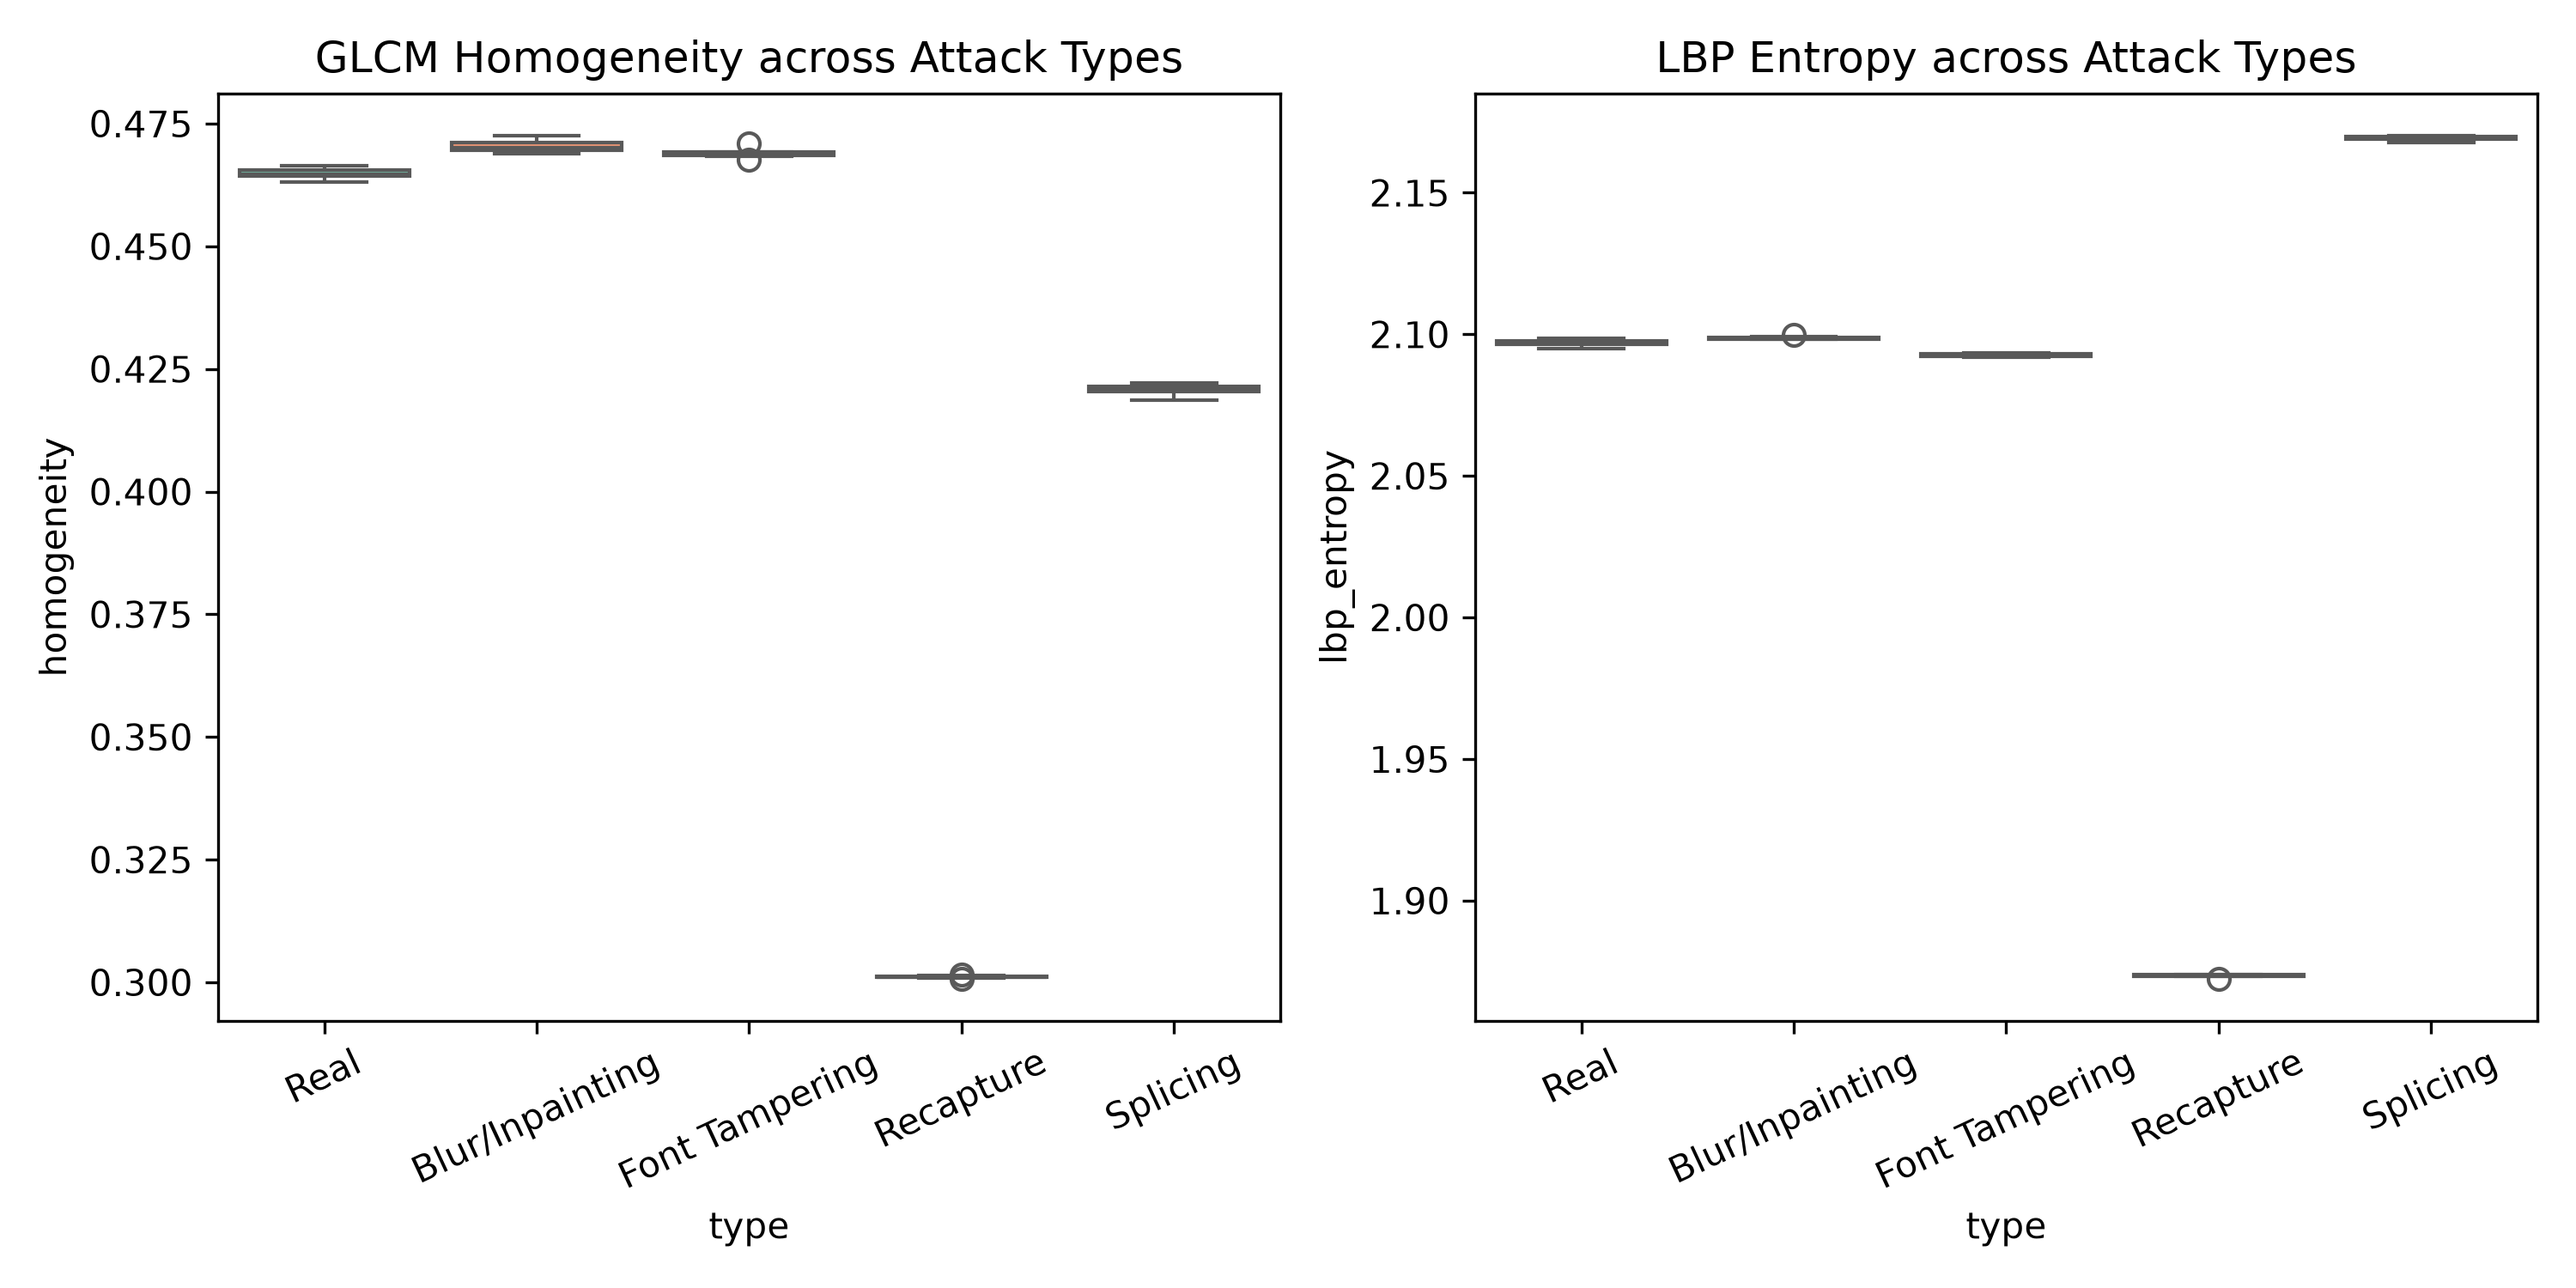
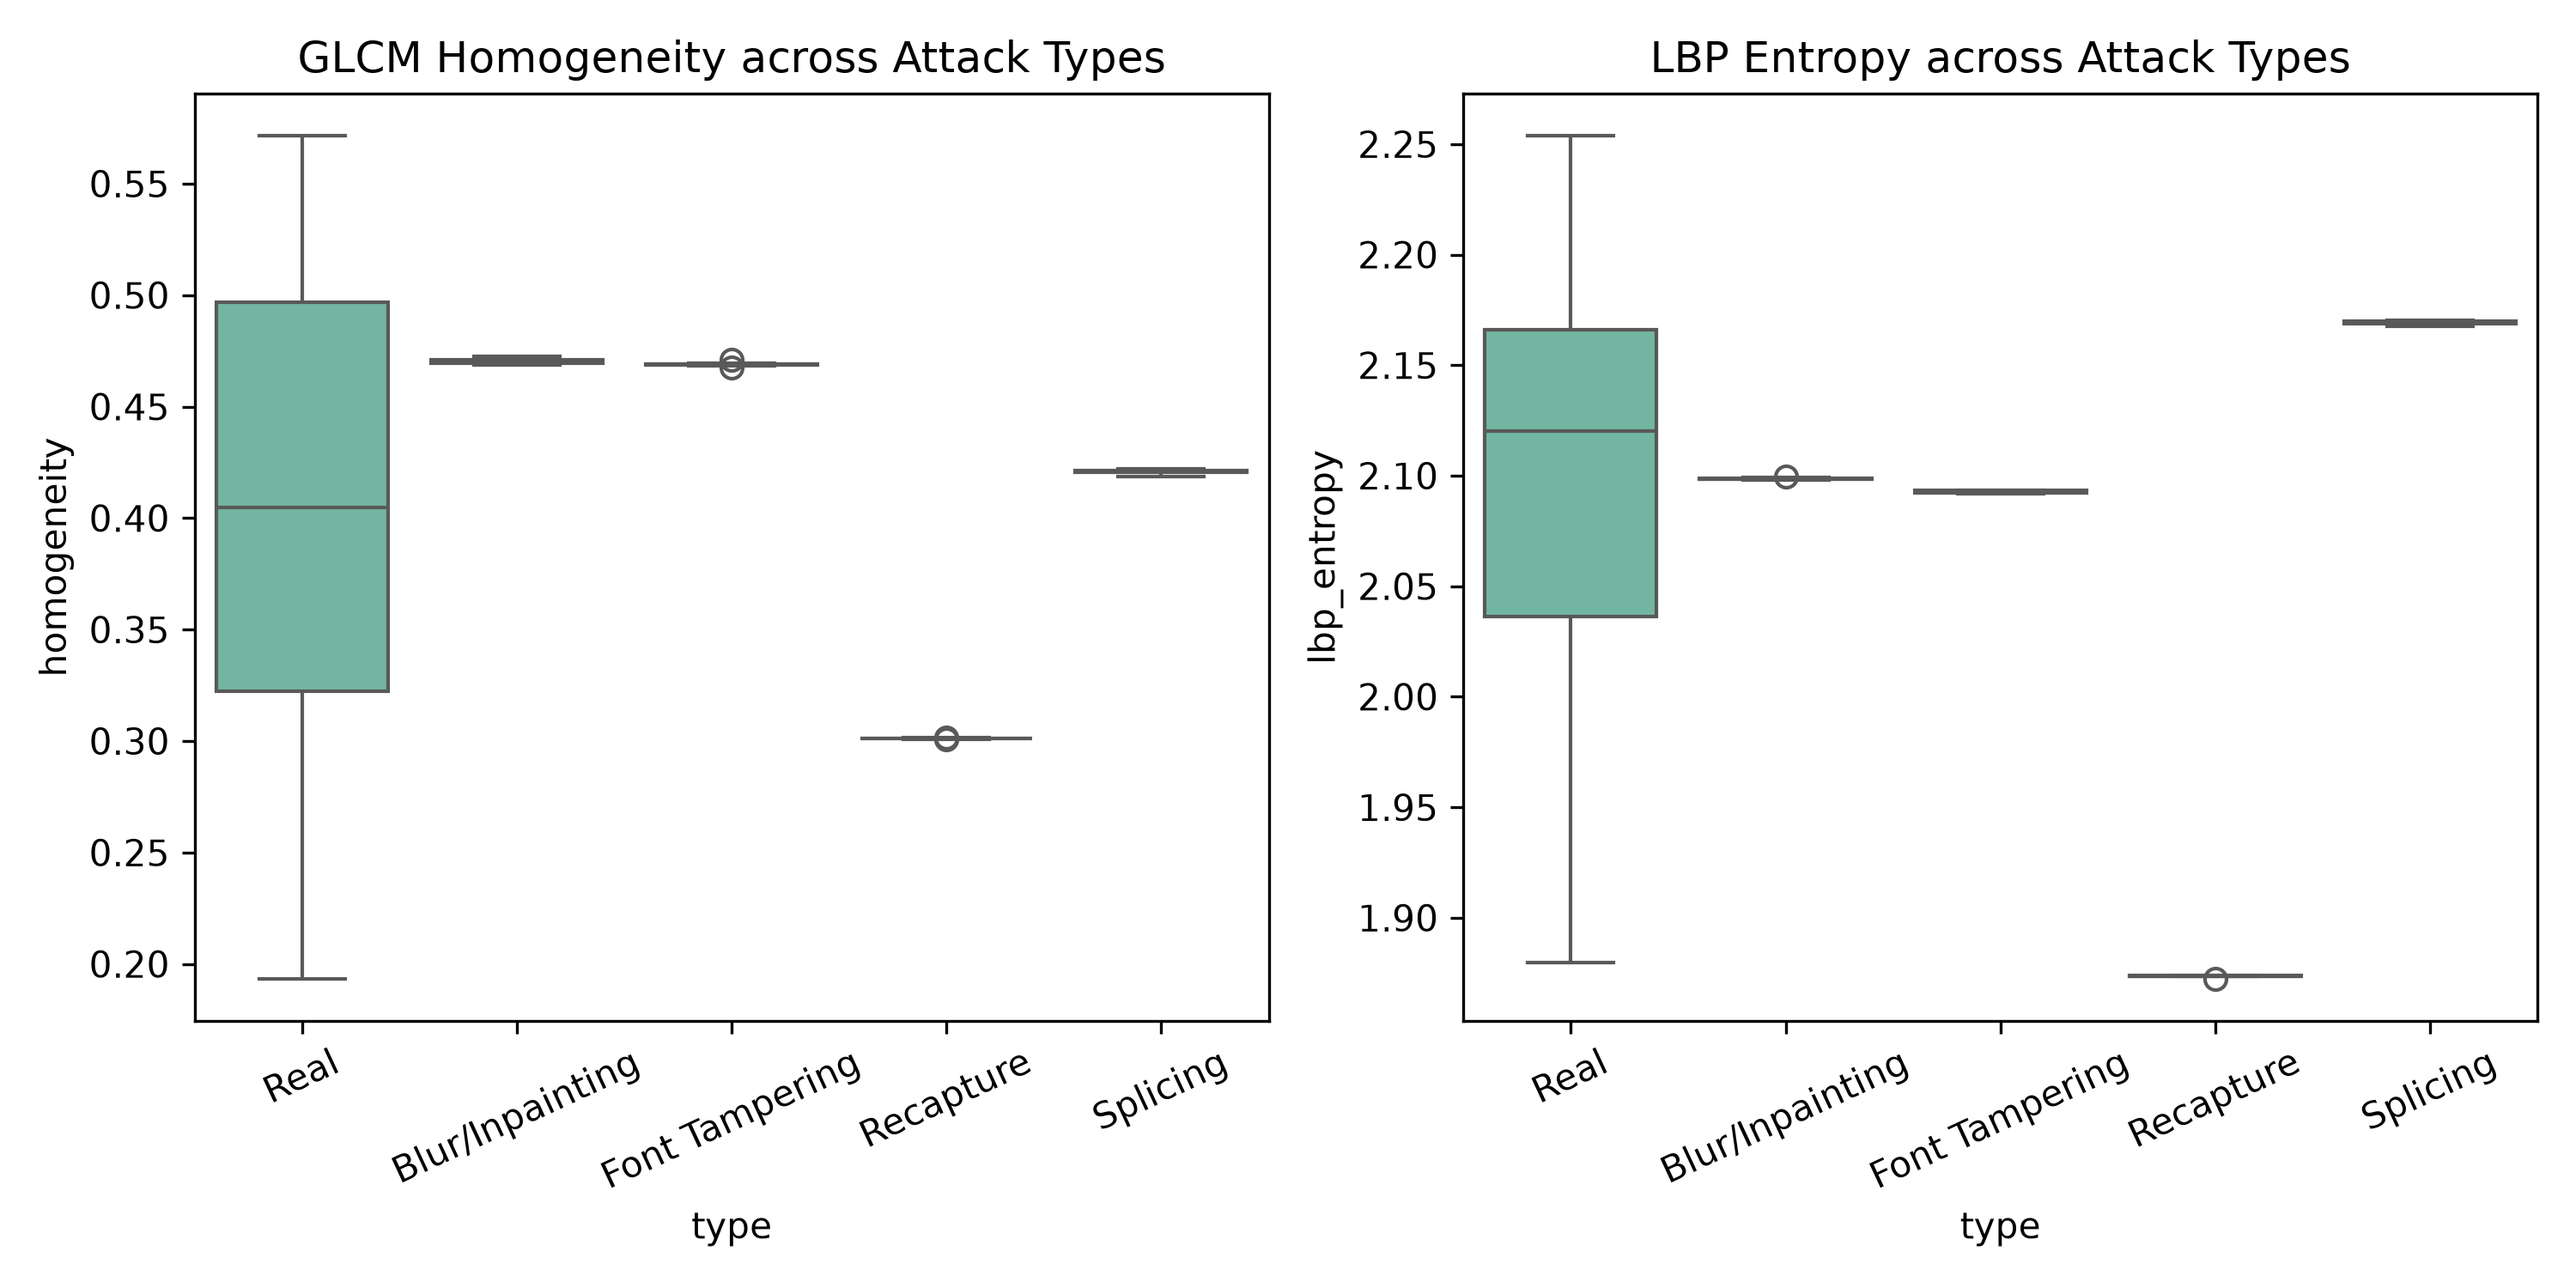
feat(tv4): Cap nhat dac trung LBP va GLCM tu 32 anh that cua Khanh (TV2)

diff --git a/src/features/export_features_tv4.py b/src/features/export_features_tv4.py
@@ -24,31 +24,51 @@ import pandas as pd
 import matplotlib.pyplot as plt
 import seaborn as sns
 
-from src.preprocessing.align import preprocess_card
-from src.preprocessing.roi_extractor import extract_rois
+try:
+    from src.preprocess.align import preprocess_card
+    from src.preprocess.roi_extractor import extract_rois
+except ImportError:
+    from src.preprocessing.align import preprocess_card
+    from src.preprocessing.roi_extractor import extract_rois
+
 from src.features.lbp_extractor import extract_lbp
 from src.features.glcm_extractor import extract_glcm
+
 
 
 def export_features_and_analyze(data_dir="./data"):
     print("[*] Đang thực hiện các nhiệm vụ của TV4 (Đặc trưng kết cấu)...")
     
-    raw_path = Path(data_dir) / "raw"
-    tampered_path = Path(data_dir) / "tampered"
+    real_path = Path(data_dir) / "real"
+    if not real_path.exists() or len(list(real_path.glob("*.*"))) <= 1:
+        real_path = Path(data_dir) / "raw"
+
+    fake_path = Path(data_dir) / "fake"
+    if not fake_path.exists() or len(list(fake_path.glob("*.*"))) <= 1:
+        fake_path = Path(data_dir) / "tampered"
+
+    print(f"[*] Nguồn ảnh thật: {real_path}")
+    print(f"[*] Nguồn ảnh giả:  {fake_path}")
 
     lbp_rows = []
     glcm_rows = []
     analysis_records = []
 
-    # 1. Quét ảnh thật (Real)
-    for f in sorted(raw_path.glob("*.png")):
+    exts = ["*.png", "*.jpg", "*.jpeg", "*.webp", "*.bmp"]
+
+    # 1. Quét ảnh thật (Real từ Khánh - TV2)
+    real_files = []
+    for ext in exts:
+        real_files.extend(list(real_path.glob(ext)))
+    real_files = sorted(set(real_files))
+
+    print(f"[*] Đang trích xuất đặc trưng {len(real_files)} ảnh thật...")
+    for f in real_files:
         img = cv2.imread(str(f))
         if img is None:
             continue
         aligned, gray = preprocess_card(img)
-        rois = extract_rois(gray)
 
-        # Trích xuất LBP & GLCM cho toàn thẻ và từng ROI
         lbp_vec = extract_lbp(gray)
         glcm_vec = extract_glcm(gray)
 
@@ -71,24 +91,29 @@ def export_features_and_analyze(data_dir="./data"):
         })
 
     # 2. Quét ảnh giả (Tampered)
-    for f in sorted(tampered_path.glob("*.png")):
+    fake_files = []
+    for ext in exts:
+        fake_files.extend(list(fake_path.glob(ext)))
+    fake_files = sorted(set(fake_files))
+
+    print(f"[*] Đang trích xuất đặc trưng {len(fake_files)} ảnh giả mạo...")
+    for f in fake_files:
         img = cv2.imread(str(f))
         if img is None:
             continue
         aligned, gray = preprocess_card(img)
-        rois = extract_rois(gray)
 
-        # Xác định loại can thiệp từ tên file
-        if "splicing" in f.name:
+        fname_lower = f.name.lower()
+        if "splic" in fname_lower or "replace_photo" in fname_lower:
             atk_type = "Splicing"
-        elif "font_tampering" in f.name:
+        elif "font" in fname_lower or "edit_text" in fname_lower:
             atk_type = "Font Tampering"
-        elif "blur" in f.name:
+        elif "blur" in fname_lower or "erasing" in fname_lower:
             atk_type = "Blur/Inpainting"
-        elif "recapture" in f.name:
+        elif "recap" in fname_lower or "reprint" in fname_lower:
             atk_type = "Recapture"
         else:
-            atk_type = "Unknown"
+            atk_type = "Tampered_General"
 
         lbp_vec = extract_lbp(gray)
         glcm_vec = extract_glcm(gray)
@@ -111,15 +136,17 @@ def export_features_and_analyze(data_dir="./data"):
             "lbp_entropy": lbp_vec[-1]
         })
 
-    # Lưu T13: data/features_lbp.csv
+    # Lưu T13: CSV & XLSX cho LBP
     df_lbp = pd.DataFrame(lbp_rows)
     df_lbp.to_csv(Path(data_dir) / "features_lbp.csv", index=False)
-    print(f"[+] [T13 Hoàn thành] Đã xuất file đặc trưng LBP: {data_dir}/features_lbp.csv ({len(df_lbp)} mẫu)")
+    df_lbp.to_excel(Path(data_dir) / "features_lbp.xlsx", index=False)
+    print(f"[+] [T13 Hoàn thành] Đã xuất file LBP: {data_dir}/features_lbp.csv & features_lbp.xlsx ({len(df_lbp)} mẫu)")
 
-    # Lưu T17: data/features_glcm.csv
+    # Lưu T17: CSV & XLSX cho GLCM
     df_glcm = pd.DataFrame(glcm_rows)
     df_glcm.to_csv(Path(data_dir) / "features_glcm.csv", index=False)
-    print(f"[+] [T17 Hoàn thành] Đã xuất file đặc trưng GLCM: {data_dir}/features_glcm.csv ({len(df_glcm)} mẫu)")
+    df_glcm.to_excel(Path(data_dir) / "features_glcm.xlsx", index=False)
+    print(f"[+] [T17 Hoàn thành] Đã xuất file GLCM: {data_dir}/features_glcm.csv & features_glcm.xlsx ({len(df_glcm)} mẫu)")
 
     # Lưu T24: Bảng phân tích theo từng loại giả mạo
     df_analysis = pd.DataFrame(analysis_records)
@@ -129,24 +156,27 @@ def export_features_and_analyze(data_dir="./data"):
         "lbp_entropy": ["mean", "std"]
     }).reset_index()
     summary_by_type.columns = ["Attack_Type", "Contrast_Mean", "Contrast_Std", "Homogeneity_Mean", "Homogeneity_Std", "LBP_Entropy_Mean", "LBP_Entropy_Std"]
-    summary_csv = Path("paper/tables/tampering_by_type.csv")
+    
+    summary_csv = Path("report/tables/tampering_by_type.csv")
+    summary_csv.parent.mkdir(parents=True, exist_ok=True)
     summary_by_type.to_csv(summary_csv, index=False)
     print(f"[+] [T24 Hoàn thành] Đã xuất bảng phân tích theo loại giả mạo: {summary_csv}")
 
     # Vẽ biểu đồ phân tích T24
     plt.figure(figsize=(10, 5))
     plt.subplot(1, 2, 1)
-    sns.boxplot(data=df_analysis, x="type", y="homogeneity", palette="Set2")
+    sns.boxplot(data=df_analysis, x="type", y="homogeneity", hue="type", palette="Set2", legend=False)
     plt.xticks(rotation=25)
     plt.title("GLCM Homogeneity across Attack Types")
 
     plt.subplot(1, 2, 2)
-    sns.boxplot(data=df_analysis, x="type", y="lbp_entropy", palette="Set2")
+    sns.boxplot(data=df_analysis, x="type", y="lbp_entropy", hue="type", palette="Set2", legend=False)
     plt.xticks(rotation=25)
     plt.title("LBP Entropy across Attack Types")
 
     plt.tight_layout()
-    chart_path = Path("paper/figures/tampering_type_analysis.png")
+    chart_path = Path("report/figures/tampering_type_analysis.png")
+    chart_path.parent.mkdir(parents=True, exist_ok=True)
     plt.savefig(chart_path, dpi=300)
     plt.close()
     print(f"[+] [T24 Hoàn thành] Đã vẽ biểu đồ phân tích đặc trưng: {chart_path}")
@@ -154,3 +184,4 @@ def export_features_and_analyze(data_dir="./data"):
 
 if __name__ == "__main__":
     export_features_and_analyze()
+
